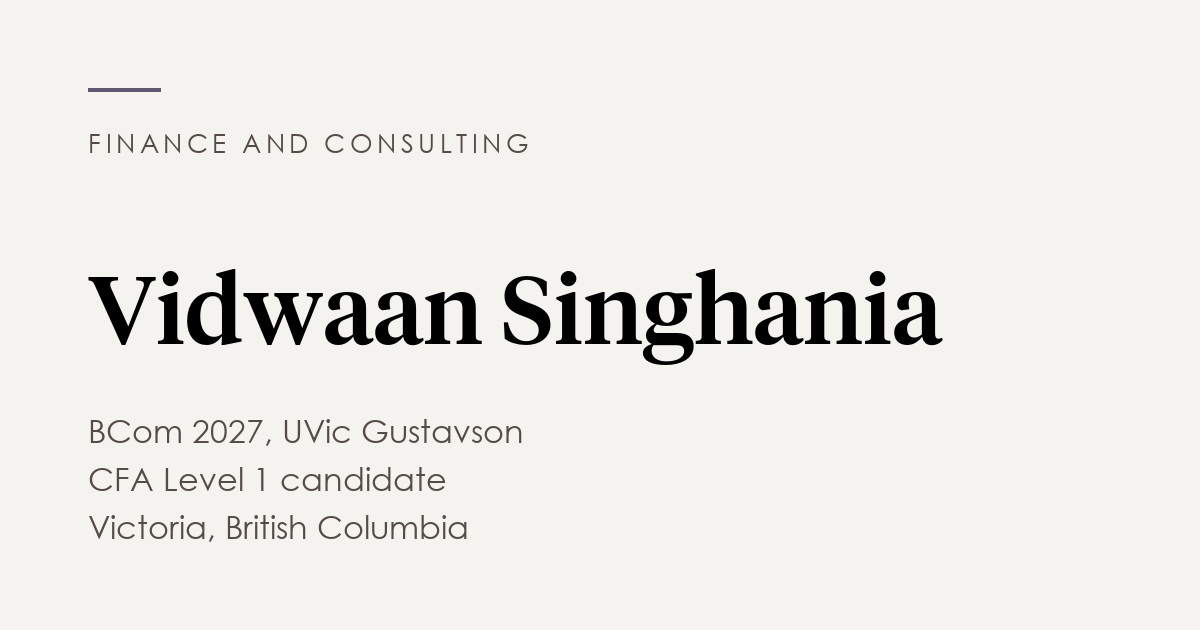
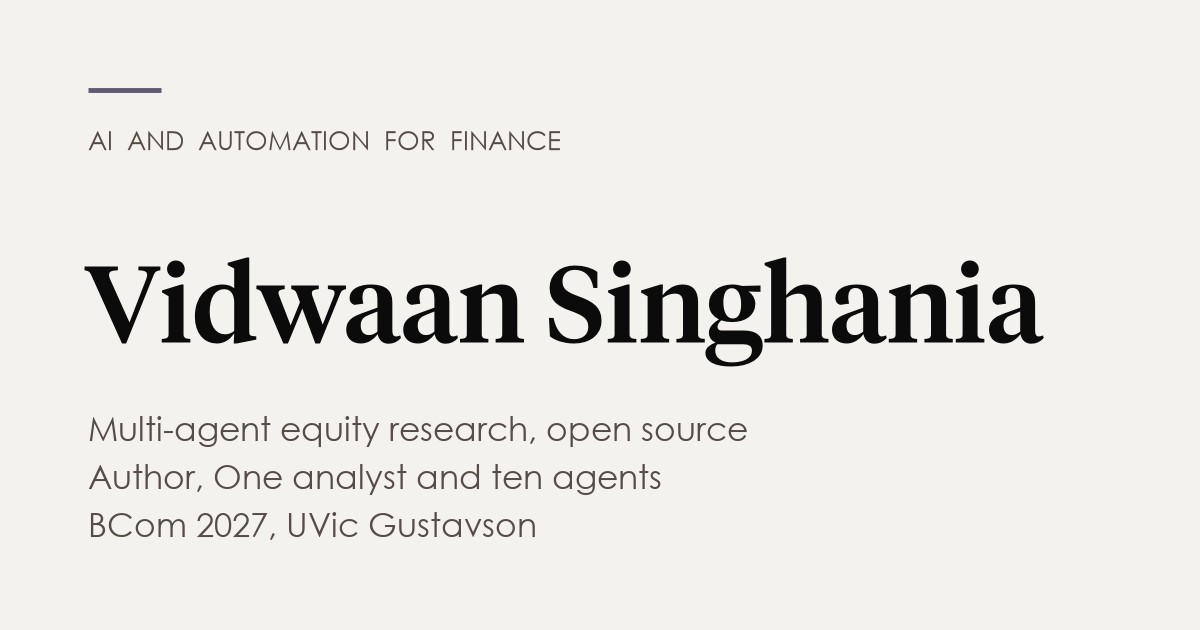
Reframe home page around AI and automation; new share image

diff --git a/index.html b/index.html
@@ -3,12 +3,12 @@
 <head>
 <meta charset="utf-8">
 <meta name="viewport" content="width=device-width, initial-scale=1">
-<title>Vidwaan Singhania | Finance and Consulting</title>
-<meta name="description" content="BCom candidate at UVic Gustavson. Equity research, a white paper on AI-assisted research, case competitions and consulting work, based in Victoria BC.">
+<title>Vidwaan Singhania | AI and Automation for Finance</title>
+<meta name="description" content="I build AI agents and automation for finance work: a ten-agent equity research pipeline, open-source Claude skills, and a white paper on what they got right and wrong. BCom student at UVic Gustavson.">
 <link rel="canonical" href="https://vidwaansinghania.github.io/">
 <meta property="og:type" content="website">
-<meta property="og:title" content="Vidwaan Singhania | Finance and Consulting">
-<meta property="og:description" content="BCom candidate at UVic Gustavson. Equity research, a white paper on AI-assisted research, case competitions and consulting work, based in Victoria BC.">
+<meta property="og:title" content="Vidwaan Singhania | AI and Automation for Finance">
+<meta property="og:description" content="I build AI agents and automation for finance work: a ten-agent equity research pipeline, open-source Claude skills, and a white paper on what they got right and wrong. BCom student at UVic Gustavson.">
 <meta property="og:url" content="https://vidwaansinghania.github.io/">
 <meta property="og:image" content="https://vidwaansinghania.github.io/assets/img/og.jpg">
 <meta name="twitter:card" content="summary_large_image">
@@ -21,10 +21,12 @@
   "name": "Vidwaan Singhania",
   "url": "https://vidwaansinghania.github.io/",
   "jobTitle": "BCom candidate",
+  "knowsAbout": ["AI agents", "Automation", "Equity research"],
   "address": { "@type": "PostalAddress", "addressLocality": "Victoria", "addressRegion": "BC", "addressCountry": "CA" },
   "alumniOf": { "@type": "CollegeOrUniversity", "name": "University of Victoria, Gustavson School of Business" },
   "sameAs": [
     "https://www.linkedin.com/in/vidwaansinghania/",
+    "https://github.com/Vidwaansinghania",
     "https://500px.com/p/vidwaansinghania",
     "https://www.instagram.com/vidwaansinghania/"
   ]
@@ -63,14 +65,15 @@
 
   <section class="hero">
     <div class="wrap">
-      <p class="kicker">Finance and consulting</p>
+      <p class="kicker">AI and automation</p>
       <h1>Vidwaan Singhania</h1>
-      <p class="standfirst">Finance and consulting, with the modelling to back it up.</p>
+      <p class="standfirst">I build AI agents and automation for finance work.</p>
       <p class="meta">
         <span>BCom 2027, UVic Gustavson</span><span>Author, <a class="link" href="#white-paper">One analyst and ten agents</a></span><span>Victoria, BC</span>
       </p>
       <div class="actions">
         <a class="btn" href="experience.html">See the work</a>
+        <a class="btn btn--ghost" href="https://github.com/Vidwaansinghania" rel="me noopener">GitHub</a>
         <a class="btn btn--ghost" href="https://www.linkedin.com/in/vidwaansinghania/" rel="me noopener">LinkedIn</a>
       </div>
     </div>
@@ -80,9 +83,8 @@
     <div class="wrap">
       <p class="kicker">Introduction</p>
       <h2>What I work on</h2>
-      <p style="margin-top:1.5rem">I study finance at the University of Victoria's Gustavson School of Business, graduating in 2027. This September I published a white paper, <a class="link" href="#white-paper">One analyst and ten agents</a>, comparing my own equity research with a ten-agent AI version of the same process.</p>
-      <p>Most of my time goes to valuation work and case competitions. I've written equity research on Air Canada for the CFA Institute Research Challenge, built a &euro;300M capital deployment model and a 10,000-path Monte Carlo pension simulation, and spent two summers consulting: process and cost work at SAMH, then operations and research at Xenex.</p>
-      <p>I use AI tools heavily in the analysis itself rather than around the edges of it, which is the part of my work that tends to surprise people.</p>
+      <p style="margin-top:1.5rem">I build AI agents and automation tools, mostly for finance work. The largest so far is a pipeline of ten agents that research a company, argue both sides and make a BUY, HOLD or SELL call. The <a class="link" href="#white-paper">white paper</a> above compares it with research I wrote myself.</p>
+      <p>Finance is the subject I know best, which is why the tools point at it. I study at UVic Gustavson, graduating in 2027. I've written equity research on Air Canada for the CFA Institute Research Challenge, built a &euro;300M capital deployment model and a 10,000-path Monte Carlo pension simulation, and spent two summers consulting at SAMH and Xenex.</p>
     </div>
   </section>
 
@@ -92,28 +94,31 @@
       <h2>Four things worth reading first</h2>
       <ul class="cards">
         <li class="card">
+          <p class="kicker">AI agents</p>
+          <h3>Multi-agent equity research</h3>
+          <p>Ten agents in eight stages: four analysts, a valuation agent, a bull, a bear, a judge, a risk check and a writer. Each run ends in a BUY, HOLD or SELL call that gets scored against the market a year later.</p>
+          <p class="card__link"><a class="link" href="https://github.com/Vidwaansinghania/Multi-Agent-Equity-Research" rel="noopener">Code on GitHub</a></p>
+        </li>
+        <li class="card">
+          <p class="kicker">Claude skills</p>
+          <h3>Four finance roles for Claude</h3>
+          <p>Open-source skills that give Claude a job: a buy-side analyst, a chief risk officer who tries to break the thesis, a macro analyst and a portfolio manager who sizes the position.</p>
+          <p class="card__link"><a class="link" href="https://github.com/Vidwaansinghania/Claude-Skills" rel="noopener">Code on GitHub</a></p>
+        </li>
+        <li class="card">
+          <p class="kicker">AI-assisted research</p>
+          <h3>Nine equity research reports</h3>
+          <p>Written with Claude over summer 2026, each with a DCF, three scenarios and a probability-weighted price target. Every call is logged and gets checked against the index from June 2027.</p>
+          <p class="card__link"><a class="link" href="papers/one-analyst-and-ten-agents.pdf">Covered in the white paper</a></p>
+        </li>
+        <li class="card">
           <p class="kicker">Equity research</p>
           <h3>CFA Institute Research Challenge</h3>
           <p>One of four students chosen to represent UVic. A 20-page report on Air Canada, DCF cross-checked against trading multiples.</p>
         </li>
-        <li class="card">
-          <p class="kicker">Consulting</p>
-          <h3>Xenex Consulting</h3>
-          <p>Operations and research co-op. Multi-audience reporting dashboard, Workspace migration, and bridge-fund policy research.</p>
-        </li>
-        <li class="card">
-          <p class="kicker">Consulting</p>
-          <h3>SAMH Consulting</h3>
-          <p>Mapped the order-to-delivery process and quantified the bottlenecks. The changes cut costs by about 8.5%.</p>
-        </li>
-        <li class="card">
-          <p class="kicker">Case competition</p>
-          <h3>McGill International Portfolio Challenge</h3>
-          <p>A two-pot pension fund model under regulatory constraints, tested over 10,000 Monte Carlo paths across 30 years.</p>
-        </li>
       </ul>
       <div class="actions">
-        <a class="btn btn--ghost" href="experience.html">All ten projects</a>
+        <a class="btn btn--ghost" href="experience.html">Consulting and case competitions</a>
       </div>
     </div>
   </section>
@@ -122,7 +127,7 @@
     <div class="wrap">
       <p class="kicker">Contact</p>
       <h2>Get in touch</h2>
-      <p style="margin-top:1.5rem">I'm looking for finance and consulting roles, and I'm happy to talk about case competitions or anything else on this site. LinkedIn is the fastest way to reach me.</p>
+      <p style="margin-top:1.5rem">I'm looking for roles where AI and automation meet finance, and I'm happy to talk about any of the projects here. LinkedIn is the fastest way to reach me.</p>
       <div class="actions">
         <a class="btn" href="https://www.linkedin.com/in/vidwaansinghania/" rel="me noopener">Message me on LinkedIn</a>
       </div>

diff --git a/about.html b/about.html
@@ -55,7 +55,7 @@
       <h2>How I got here</h2>
       <p style="margin-top:1.5rem">I grew up in Bangalore. Finishing high school there, I wanted to study abroad, and with my parents backing me I started at the University of Victoria in 2023.</p>
       <p>Three years in, the plan has sharpened. I came for a business degree and found the parts I actually care about: valuation, capital allocation, and building the model that settles an argument. Along the way I co-founded the UVic Entrepreneurship Club, worked two consulting summers, and represented UVic at the CFA Institute Research Challenge.</p>
-      <p>I'm looking for finance and consulting roles for after I graduate in 2027.</p>
+      <p>I'm looking for roles where AI and automation meet finance, for after I graduate in 2027.</p>
       <div class="actions">
         <a class="btn" href="experience.html">See the work</a>
         <a class="btn btn--ghost" href="https://www.linkedin.com/in/vidwaansinghania/" rel="me noopener">LinkedIn</a>

diff --git a/assets/style.css b/assets/style.css
@@ -302,6 +302,7 @@ p:last-child { margin-bottom: 0; }
   color: var(--graphite);
   margin: 0;
 }
+.card .card__link { margin-top: auto; padding-top: 1.1rem; font-size: 0.88rem; }
 
 /* ---------- footer ---------- */
 
